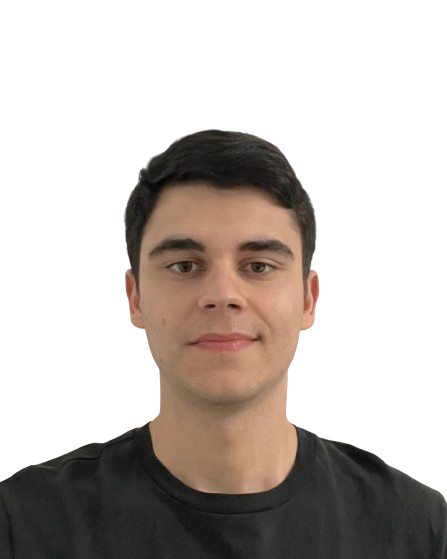
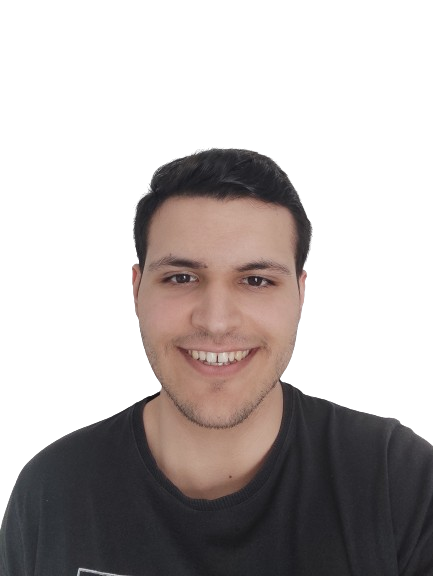
v0.4

Changed region(s): [[0.0, 0.2129, 1.0, 1.0], [0.1801, 0.9732, 0.2702, 1.0]]

diff --git a/src/components/Us.jsx b/src/components/Us.jsx
@@ -6,115 +6,115 @@ const Us = () => {
       id="product"
       className=" bg-bg"
     >
-      <div className='className="grid xl:p-20 xl:max-w-[1200px] l:max-w-[800px]  mx-auto text-primary-200'>
+      <div className='className="grid xl:p-20 xl:max-w-[1200px] l:max-w-[800px] md:max-w-[600px] mx-[2vh] md:mx-auto text-primary-200'>
         <h1 className="text-[40px] font-bold">¿Quiénes somos?</h1>
         {/* Services */}
-        <div className="grid grid-cols-1 md:grid-cols-3 gap-8">
+        <div className="grid grid-cols-1 xl:grid-cols-3 md:grid-cols-2 grid-cols-1 gap-8">
           <div className="w-full max-w-sm bg-white border border-gray-200 rounded-lg shadow dark:bg-primary-200 dark:border-gray-700">
             <div className="flex flex-col items-center pb-10">
-              <img className="w-full h-full mb-3 rounded-full shadow-lg" src="member1.png" alt="Bonnie image" />
-              <h5 className="mb-1 text-xl font-medium text-gray-900 dark:text-white">Alejandro Campano Galán</h5>
+              <img className="w-full h-full xl:h-[400px]  mb-3 rounded-full shadow-lg" src="member1.png" alt="Bonnie image" />
+              <h5 className="mb-1 text-xl font-medium text-gray-900 dark:text-white">Juan Jesús Campos Garrido</h5>
               <div className="flex mt-4 md:mt-6">
-                <a href="#" className="py-2 px-4 ms-2 text-sm font-medium text-gray-900 focus:outline-none bg-white rounded-lg border border-gray-200 hover:bg-gray-100 hover:text-blue-700 focus:z-10 focus:ring-4 focus:ring-gray-100 dark:focus:ring-gray-700 dark:bg-gray-800 dark:text-gray-400 dark:border-gray-600 dark:hover:text-white dark:hover:bg-gray-700">Contacto</a>
+                <a href="mailto:guaje3181@gmail.com" className="py-2 px-4 ms-2 text-sm font-medium text-gray-900 focus:outline-none bg-white rounded-lg border border-gray-200 hover:bg-gray-100 hover:text-blue-700 focus:z-10 focus:ring-4 focus:ring-gray-100 dark:focus:ring-gray-700 dark:bg-gray-800 dark:text-gray-400 dark:border-gray-600 dark:hover:text-white dark:hover:bg-gray-700">Contacto</a>
               </div>
             </div>
           </div>
           <div className="w-full max-w-sm bg-white border border-gray-200 rounded-lg shadow dark:bg-primary-200 dark:border-gray-700">
             <div className="flex flex-col items-center pb-10">
-              <img className="w-full h-full mb-3 rounded-full shadow-lg" src="member1.png" alt="Bonnie image" />
-              <h5 className="mb-1 text-xl font-medium text-gray-900 dark:text-white">Alejandro Campano Galán</h5>
+              <img className="w-full h-full md:h-[400px] mb-3 rounded-full shadow-lg" src="member2.png" alt="Bonnie image" />
+              <h5 className="mb-1 text-xl font-medium text-gray-900 dark:text-white">Antonio Carretero Díaz</h5>
               <div className="flex mt-4 md:mt-6">
-                <a href="#" className="py-2 px-4 ms-2 text-sm font-medium text-gray-900 focus:outline-none bg-white rounded-lg border border-gray-200 hover:bg-gray-100 hover:text-blue-700 focus:z-10 focus:ring-4 focus:ring-gray-100 dark:focus:ring-gray-700 dark:bg-gray-800 dark:text-gray-400 dark:border-gray-600 dark:hover:text-white dark:hover:bg-gray-700">Contacto</a>
+                <a href="mailto:antoniocarreterodiaz@gmail.com" className="py-2 px-4 ms-2 text-sm font-medium text-gray-900 focus:outline-none bg-white rounded-lg border border-gray-200 hover:bg-gray-100 hover:text-blue-700 focus:z-10 focus:ring-4 focus:ring-gray-100 dark:focus:ring-gray-700 dark:bg-gray-800 dark:text-gray-400 dark:border-gray-600 dark:hover:text-white dark:hover:bg-gray-700">Contacto</a>
               </div>
             </div>
           </div>
           <div className="w-full max-w-sm bg-white border border-gray-200 rounded-lg shadow dark:bg-primary-200 dark:border-gray-700">
             <div className="flex flex-col items-center pb-10">
-              <img className="w-full h-full mb-3 rounded-full shadow-lg" src="member1.png" alt="Bonnie image" />
-              <h5 className="mb-1 text-xl font-medium text-gray-900 dark:text-white">Alejandro Campano Galán</h5>
+              <img className="w-full h-full md:h-[400px] mb-3 rounded-full shadow-lg" src="member3.png" alt="Bonnie image" />
+              <h5 className="mb-1 text-xl font-medium text-gray-900 dark:text-white">Alejandro García Sánchez-Hermosilla</h5>
               <div className="flex mt-4 md:mt-6">
-                <a href="#" className="py-2 px-4 ms-2 text-sm font-medium text-gray-900 focus:outline-none bg-white rounded-lg border border-gray-200 hover:bg-gray-100 hover:text-blue-700 focus:z-10 focus:ring-4 focus:ring-gray-100 dark:focus:ring-gray-700 dark:bg-gray-800 dark:text-gray-400 dark:border-gray-600 dark:hover:text-white dark:hover:bg-gray-700">Contacto</a>
+                <a href="mailto:agarciasan0215@gmail.com" className="py-2 px-4 ms-2 text-sm font-medium text-gray-900 focus:outline-none bg-white rounded-lg border border-gray-200 hover:bg-gray-100 hover:text-blue-700 focus:z-10 focus:ring-4 focus:ring-gray-100 dark:focus:ring-gray-700 dark:bg-gray-800 dark:text-gray-400 dark:border-gray-600 dark:hover:text-white dark:hover:bg-gray-700">Contacto</a>
               </div>
             </div>
           </div>
           <div className="w-full max-w-sm bg-white border border-gray-200 rounded-lg shadow dark:bg-primary-200 dark:border-gray-700">
             <div className="flex flex-col items-center pb-10">
-              <img className="w-full h-full mb-3 rounded-full shadow-lg" src="member1.png" alt="Bonnie image" />
-              <h5 className="mb-1 text-xl font-medium text-gray-900 dark:text-white">Alejandro Campano Galán</h5>
+              <img className="w-full h-full md:h-[400px] mb-3 rounded-full shadow-lg" src="member4.png" alt="Bonnie image" />
+              <h5 className="mb-1 text-xl font-medium text-gray-900 dark:text-white">María Escalante Ramos</h5>
               <div className="flex mt-4 md:mt-6">
-                <a href="#" className="py-2 px-4 ms-2 text-sm font-medium text-gray-900 focus:outline-none bg-white rounded-lg border border-gray-200 hover:bg-gray-100 hover:text-blue-700 focus:z-10 focus:ring-4 focus:ring-gray-100 dark:focus:ring-gray-700 dark:bg-gray-800 dark:text-gray-400 dark:border-gray-600 dark:hover:text-white dark:hover:bg-gray-700">Contacto</a>
+                <a href="mailto:mariaescalanteramos9@gmail.com" className="py-2 px-4 ms-2 text-sm font-medium text-gray-900 focus:outline-none bg-white rounded-lg border border-gray-200 hover:bg-gray-100 hover:text-blue-700 focus:z-10 focus:ring-4 focus:ring-gray-100 dark:focus:ring-gray-700 dark:bg-gray-800 dark:text-gray-400 dark:border-gray-600 dark:hover:text-white dark:hover:bg-gray-700">Contacto</a>
               </div>
             </div>
           </div>
           <div className="w-full max-w-sm bg-white border border-gray-200 rounded-lg shadow dark:bg-primary-200 dark:border-gray-700">
             <div className="flex flex-col items-center pb-10">
-              <img className="w-full h-full mb-3 rounded-full shadow-lg" src="member1.png" alt="Bonnie image" />
+              <img className="w-full h-full md:h-[400px] mb-3 rounded-full shadow-lg" src="member5.png" alt="Bonnie image" />
               <h5 className="mb-1 text-xl font-medium text-gray-900 dark:text-white">Alejandro Campano Galán</h5>
               <div className="flex mt-4 md:mt-6">
-                <a href="#" className="py-2 px-4 ms-2 text-sm font-medium text-gray-900 focus:outline-none bg-white rounded-lg border border-gray-200 hover:bg-gray-100 hover:text-blue-700 focus:z-10 focus:ring-4 focus:ring-gray-100 dark:focus:ring-gray-700 dark:bg-gray-800 dark:text-gray-400 dark:border-gray-600 dark:hover:text-white dark:hover:bg-gray-700">Contacto</a>
+                <a href="mailto:alecamgal1@alum.us.es" className="py-2 px-4 ms-2 text-sm font-medium text-gray-900 focus:outline-none bg-white rounded-lg border border-gray-200 hover:bg-gray-100 hover:text-blue-700 focus:z-10 focus:ring-4 focus:ring-gray-100 dark:focus:ring-gray-700 dark:bg-gray-800 dark:text-gray-400 dark:border-gray-600 dark:hover:text-white dark:hover:bg-gray-700">Contacto</a>
               </div>
             </div>
           </div>
           <div className="w-full max-w-sm bg-white border border-gray-200 rounded-lg shadow dark:bg-primary-200 dark:border-gray-700">
             <div className="flex flex-col items-center pb-10">
-              <img className="w-full h-full mb-3 rounded-full shadow-lg" src="member1.png" alt="Bonnie image" />
-              <h5 className="mb-1 text-xl font-medium text-gray-900 dark:text-white">Alejandro Campano Galán</h5>
+              <img className="w-full h-full md:h-[400px] mb-3 rounded-full shadow-lg" src="member6.png" alt="Bonnie image" />
+              <h5 className="mb-1 text-xl font-medium text-gray-900 dark:text-white">Carlos Baquero Villena</h5>
               <div className="flex mt-4 md:mt-6">
-                <a href="#" className="py-2 px-4 ms-2 text-sm font-medium text-gray-900 focus:outline-none bg-white rounded-lg border border-gray-200 hover:bg-gray-100 hover:text-blue-700 focus:z-10 focus:ring-4 focus:ring-gray-100 dark:focus:ring-gray-700 dark:bg-gray-800 dark:text-gray-400 dark:border-gray-600 dark:hover:text-white dark:hover:bg-gray-700">Contacto</a>
+                <a href="mailto:carlos.baqueville@gmail.com" className="py-2 px-4 ms-2 text-sm font-medium text-gray-900 focus:outline-none bg-white rounded-lg border border-gray-200 hover:bg-gray-100 hover:text-blue-700 focus:z-10 focus:ring-4 focus:ring-gray-100 dark:focus:ring-gray-700 dark:bg-gray-800 dark:text-gray-400 dark:border-gray-600 dark:hover:text-white dark:hover:bg-gray-700">Contacto</a>
               </div>
             </div>
           </div>
           <div className="w-full max-w-sm bg-white border border-gray-200 rounded-lg shadow dark:bg-primary-200 dark:border-gray-700">
             <div className="flex flex-col items-center pb-10">
-              <img className="w-full h-full mb-3 rounded-full shadow-lg" src="member1.png" alt="Bonnie image" />
-              <h5 className="mb-1 text-xl font-medium text-gray-900 dark:text-white">Alejandro Campano Galán</h5>
+              <img className="w-full h-full md:h-[400px] mb-3 rounded-full shadow-lg" src="member7.png" alt="Bonnie image" />
+              <h5 className="mb-1 text-xl font-medium text-gray-900 dark:text-white">Alejandro Santiago Félix</h5>
               <div className="flex mt-4 md:mt-6">
-                <a href="#" className="py-2 px-4 ms-2 text-sm font-medium text-gray-900 focus:outline-none bg-white rounded-lg border border-gray-200 hover:bg-gray-100 hover:text-blue-700 focus:z-10 focus:ring-4 focus:ring-gray-100 dark:focus:ring-gray-700 dark:bg-gray-800 dark:text-gray-400 dark:border-gray-600 dark:hover:text-white dark:hover:bg-gray-700">Contacto</a>
+                <a href="mailto:alex.0002002@gmail.com" className="py-2 px-4 ms-2 text-sm font-medium text-gray-900 focus:outline-none bg-white rounded-lg border border-gray-200 hover:bg-gray-100 hover:text-blue-700 focus:z-10 focus:ring-4 focus:ring-gray-100 dark:focus:ring-gray-700 dark:bg-gray-800 dark:text-gray-400 dark:border-gray-600 dark:hover:text-white dark:hover:bg-gray-700">Contacto</a>
               </div>
             </div>
           </div>
           <div className="w-full max-w-sm bg-white border border-gray-200 rounded-lg shadow dark:bg-primary-200 dark:border-gray-700">
             <div className="flex flex-col items-center pb-10">
-              <img className="w-full h-full mb-3 rounded-full shadow-lg" src="member1.png" alt="Bonnie image" />
-              <h5 className="mb-1 text-xl font-medium text-gray-900 dark:text-white">Alejandro Campano Galán</h5>
+              <img className="w-full h-full md:h-[400px] mb-3 rounded-full shadow-lg" src="member8.png" alt="Bonnie image" />
+              <h5 className="mb-1 text-xl font-medium text-gray-900 dark:text-white">David Reyes Alés</h5>
               <div className="flex mt-4 md:mt-6">
-                <a href="#" className="py-2 px-4 ms-2 text-sm font-medium text-gray-900 focus:outline-none bg-white rounded-lg border border-gray-200 hover:bg-gray-100 hover:text-blue-700 focus:z-10 focus:ring-4 focus:ring-gray-100 dark:focus:ring-gray-700 dark:bg-gray-800 dark:text-gray-400 dark:border-gray-600 dark:hover:text-white dark:hover:bg-gray-700">Contacto</a>
+                <a href="mailto:davidreyesales@gmail.com" className="py-2 px-4 ms-2 text-sm font-medium text-gray-900 focus:outline-none bg-white rounded-lg border border-gray-200 hover:bg-gray-100 hover:text-blue-700 focus:z-10 focus:ring-4 focus:ring-gray-100 dark:focus:ring-gray-700 dark:bg-gray-800 dark:text-gray-400 dark:border-gray-600 dark:hover:text-white dark:hover:bg-gray-700">Contacto</a>
               </div>
             </div>
           </div>
           <div className="w-full max-w-sm bg-white border border-gray-200 rounded-lg shadow dark:bg-primary-200 dark:border-gray-700">
             <div className="flex flex-col items-center pb-10">
-              <img className="w-full h-full mb-3 rounded-full shadow-lg" src="member1.png" alt="Bonnie image" />
-              <h5 className="mb-1 text-xl font-medium text-gray-900 dark:text-white">Alejandro Campano Galán</h5>
+              <img className="w-full h-full md:h-[400px] mb-3 rounded-full shadow-lg" src="member9.png" alt="Bonnie image" />
+              <h5 className="mb-1 text-xl font-medium text-gray-900 dark:text-white">Diego García Linares</h5>
               <div className="flex mt-4 md:mt-6">
-                <a href="#" className="py-2 px-4 ms-2 text-sm font-medium text-gray-900 focus:outline-none bg-white rounded-lg border border-gray-200 hover:bg-gray-100 hover:text-blue-700 focus:z-10 focus:ring-4 focus:ring-gray-100 dark:focus:ring-gray-700 dark:bg-gray-800 dark:text-gray-400 dark:border-gray-600 dark:hover:text-white dark:hover:bg-gray-700">Contacto</a>
+                <a href="mailto:garcialinaresdiego@gmail.com" className="py-2 px-4 ms-2 text-sm font-medium text-gray-900 focus:outline-none bg-white rounded-lg border border-gray-200 hover:bg-gray-100 hover:text-blue-700 focus:z-10 focus:ring-4 focus:ring-gray-100 dark:focus:ring-gray-700 dark:bg-gray-800 dark:text-gray-400 dark:border-gray-600 dark:hover:text-white dark:hover:bg-gray-700">Contacto</a>
               </div>
             </div>
           </div>
           <div className="w-full max-w-sm bg-white border border-gray-200 rounded-lg shadow dark:bg-primary-200 dark:border-gray-700">
             <div className="flex flex-col items-center pb-10">
-              <img className="w-full h-full mb-3 rounded-full shadow-lg" src="member1.png" alt="Bonnie image" />
-              <h5 className="mb-1 text-xl font-medium text-gray-900 dark:text-white">Alejandro Campano Galán</h5>
+              <img className="w-full h-full xl:h-[400px] mb-3 rounded-full shadow-lg" src="member10.png" alt="Bonnie image" />
+              <h5 className="mb-1 text-xl font-medium text-gray-900 dark:text-white">Úrsula Garrucho Sánchez</h5>
               <div className="flex mt-4 md:mt-6">
-                <a href="#" className="py-2 px-4 ms-2 text-sm font-medium text-gray-900 focus:outline-none bg-white rounded-lg border border-gray-200 hover:bg-gray-100 hover:text-blue-700 focus:z-10 focus:ring-4 focus:ring-gray-100 dark:focus:ring-gray-700 dark:bg-gray-800 dark:text-gray-400 dark:border-gray-600 dark:hover:text-white dark:hover:bg-gray-700">Contacto</a>
+                <a href="mailto:ugsugs333@gmail.com" className="py-2 px-4 ms-2 text-sm font-medium text-gray-900 focus:outline-none bg-white rounded-lg border border-gray-200 hover:bg-gray-100 hover:text-blue-700 focus:z-10 focus:ring-4 focus:ring-gray-100 dark:focus:ring-gray-700 dark:bg-gray-800 dark:text-gray-400 dark:border-gray-600 dark:hover:text-white dark:hover:bg-gray-700">Contacto</a>
               </div>
             </div>
           </div>
           <div className="w-full max-w-sm bg-white border border-gray-200 rounded-lg shadow dark:bg-primary-200 dark:border-gray-700">
             <div className="flex flex-col items-center pb-10">
-              <img className="w-full h-full mb-3 rounded-full shadow-lg" src="member1.png" alt="Bonnie image" />
-              <h5 className="mb-1 text-xl font-medium text-gray-900 dark:text-white">Alejandro Campano Galán</h5>
+              <img className="w-full h-full xl:h-[400px] mb-3 rounded-full shadow-lg" src="member11.png" alt="Bonnie image" />
+              <h5 className="mb-1 text-xl font-medium text-gray-900 dark:text-white">David Cortabarra Romero</h5>
               <div className="flex mt-4 md:mt-6">
-                <a href="#" className="py-2 px-4 ms-2 text-sm font-medium text-gray-900 focus:outline-none bg-white rounded-lg border border-gray-200 hover:bg-gray-100 hover:text-blue-700 focus:z-10 focus:ring-4 focus:ring-gray-100 dark:focus:ring-gray-700 dark:bg-gray-800 dark:text-gray-400 dark:border-gray-600 dark:hover:text-white dark:hover:bg-gray-700">Contacto</a>
+                <a href="mailto:davidcortabarra02@gmail.com" className="py-2 px-4 ms-2 text-sm font-medium text-gray-900 focus:outline-none bg-white rounded-lg border border-gray-200 hover:bg-gray-100 hover:text-blue-700 focus:z-10 focus:ring-4 focus:ring-gray-100 dark:focus:ring-gray-700 dark:bg-gray-800 dark:text-gray-400 dark:border-gray-600 dark:hover:text-white dark:hover:bg-gray-700">Contacto</a>
               </div>
             </div>
           </div>
           <div className="w-full max-w-sm bg-white border border-gray-200 rounded-lg shadow dark:bg-primary-200 dark:border-gray-700">
             <div className="flex flex-col items-center pb-10">
-              <img className="w-full h-full mb-3 rounded-full shadow-lg" src="member1.png" alt="Bonnie image" />
-              <h5 className="mb-1 text-xl font-medium text-gray-900 dark:text-white">Alejandro Campano Galán</h5>
+              <img className="w-full h-full xl:h-[400px] mb-3 rounded-full shadow-lg" src="member12.png" alt="Bonnie image" />
+              <h5 className="mb-1 text-xl font-medium text-gray-900 dark:text-white">Pablo Mera Gómez</h5>
               <div className="flex mt-4 md:mt-6">
-                <a href="#" className="py-2 px-4 ms-2 text-sm font-medium text-gray-900 focus:outline-none bg-white rounded-lg border border-gray-200 hover:bg-gray-100 hover:text-blue-700 focus:z-10 focus:ring-4 focus:ring-gray-100 dark:focus:ring-gray-700 dark:bg-gray-800 dark:text-gray-400 dark:border-gray-600 dark:hover:text-white dark:hover:bg-gray-700">Contacto</a>
+                <a href="mailto:pablomera08@gmail.com" className="py-2 px-4 ms-2 text-sm font-medium text-gray-900 focus:outline-none bg-white rounded-lg border border-gray-200 hover:bg-gray-100 hover:text-blue-700 focus:z-10 focus:ring-4 focus:ring-gray-100 dark:focus:ring-gray-700 dark:bg-gray-800 dark:text-gray-400 dark:border-gray-600 dark:hover:text-white dark:hover:bg-gray-700">Contacto</a>
               </div>
             </div>
           </div>

diff --git a/src/components/Product.jsx b/src/components/Product.jsx
@@ -11,7 +11,7 @@ const Product = () => {
       id="product"
       className=" bg-bg"
     >
-      <div className='className="grid xl:p-20 xl:max-w-[1200px] l:max-w-[800px]  mx-auto text-primary-200'>
+      <div className='className="grid xl:p-20 xl:max-w-[1200px] l:max-w-[800px] md:max-w-[600px] mx-[2vh] md:mx-auto text-primary-200'>
         <h1 className="text-[40px] font-bold">¿Qué ofrecemos?</h1>
         {/* Services */}
         <div className="grid grid-cols-1 md:grid-cols-2 gap-8">
